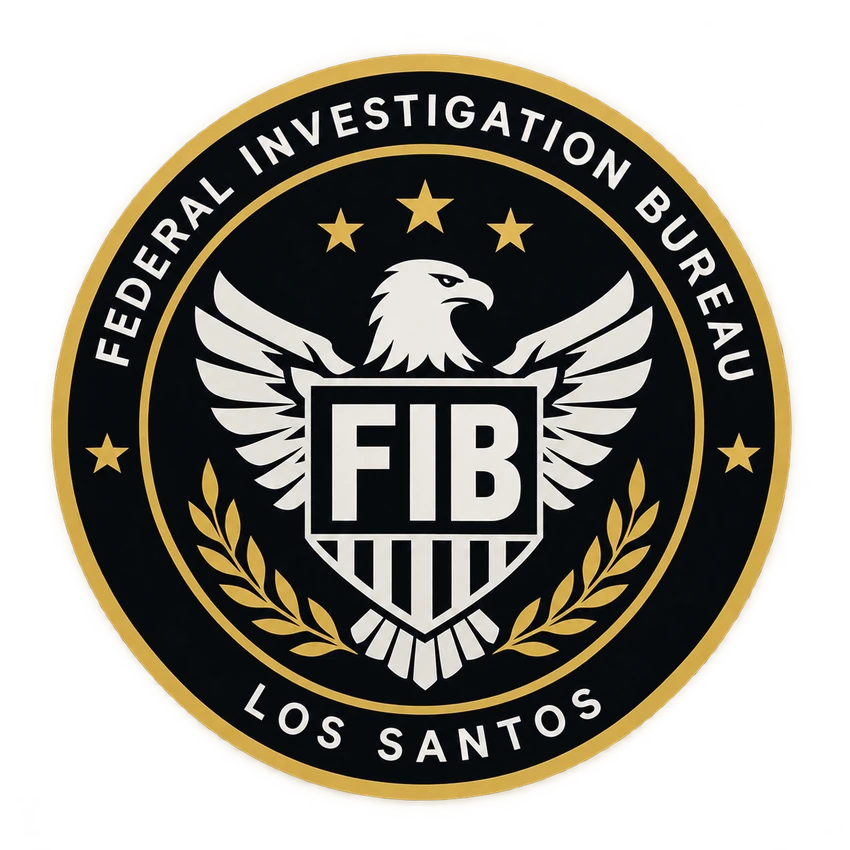
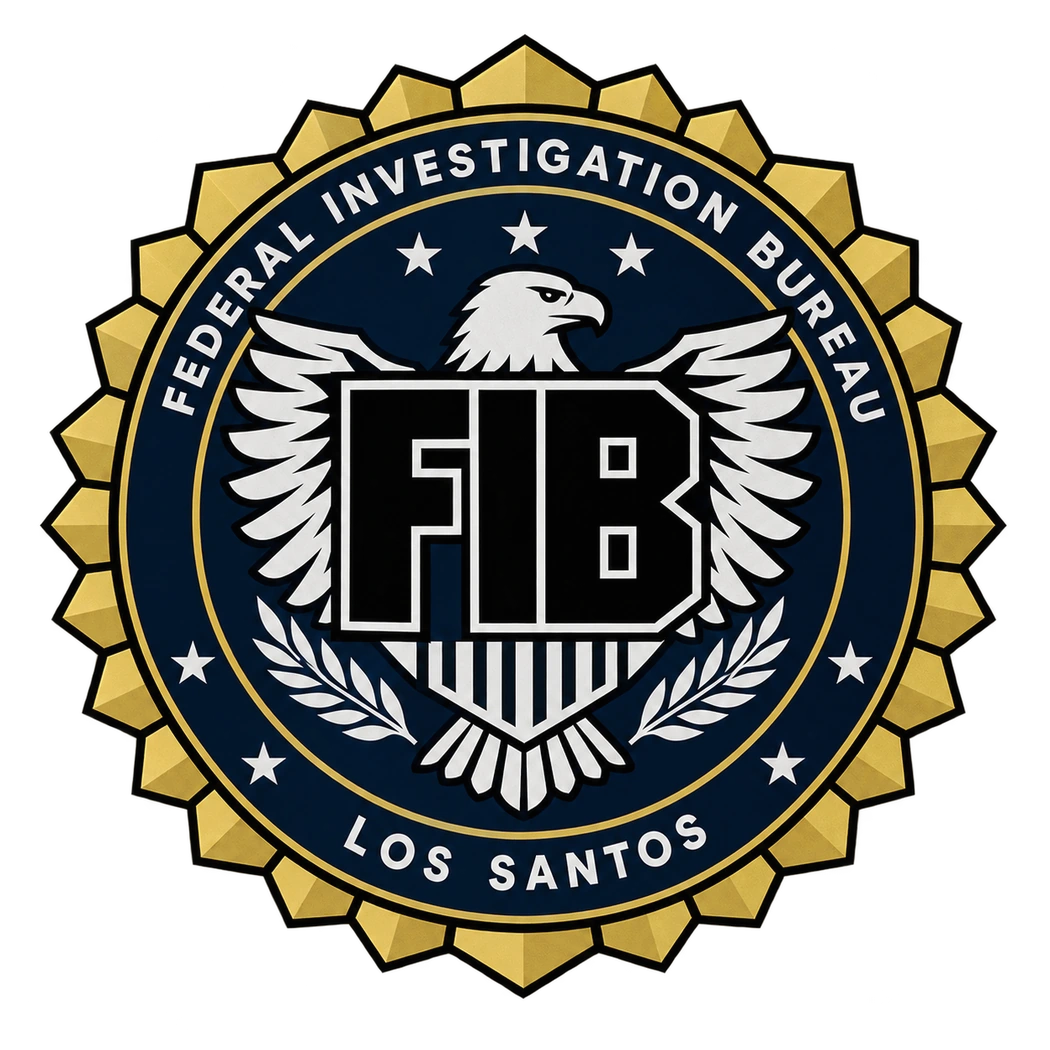
Add files via upload

diff --git a/styles.css b/styles.css
@@ -1326,3 +1326,125 @@
 .profile-portrait.has-photo img{width:100%;height:100%;max-width:none;max-height:none;object-fit:cover;object-position:50% 28%}
 .unit-page .unit-leader-portrait{width:min(100%,190px);height:190px;object-fit:cover;object-position:50% 25%;border-radius:12px;display:block;margin-bottom:5px}
 .profile-dialog .profile-paragraph+.profile-paragraph{margin-top:11px}
+
+/* ================================================================
+   FIB OLYMP 5.0 | final design alignment and functional galleries
+   Scope is intentional: leave approved Contacts and Join pages intact.
+   ================================================================ */
+/* New shared FIB seal is installed at /assets/fib-seal.webp, including favicon. */
+.home .home-leadership{
+  display:grid!important;
+  grid-template-columns:minmax(0,1.3fr) minmax(290px,.8fr)!important;
+  gap:clamp(25px,4vw,65px)!important;
+  align-items:center!important;
+  min-height:420px!important;
+  padding-top:72px!important;padding-bottom:88px!important;
+  position:relative!important;isolation:isolate!important;
+  overflow:hidden!important;
+}
+.home .home-leadership-left{grid-column:1!important;grid-row:1!important;position:relative!important;z-index:2!important}
+.home .home-bureau-frame{grid-column:2!important;grid-row:1!important;position:relative!important;z-index:2!important;max-width:440px!important;justify-self:end!important}
+.home .home-leadership .home-seal{
+  position:absolute!important;inset:auto!important;top:50%!important;right:0!important;
+  display:block!important;grid-column:auto!important;grid-row:auto!important;
+  width:min(55vw,680px)!important;height:min(55vw,680px)!important;
+  min-width:0!important;margin:0!important;
+  justify-self:auto!important;align-self:auto!important;
+  background:url('/assets/fib-seal.webp') center/contain no-repeat!important;
+  z-index:0!important;opacity:.13!important;filter:saturate(.78)!important;
+  animation:fib-seal-watermark-float 11s ease-in-out infinite!important;
+  will-change:transform;pointer-events:none!important;
+}
+@keyframes fib-seal-watermark-float{
+  0%,100%{transform:translateY(-50%) rotate(-1deg)}
+  50%{transform:translateY(calc(-50% - 11px)) rotate(1deg)}
+}
+/* Fade the background photograph into the next dark section, never a hard stripe. */
+.home .hero{background:#0b0c0d!important}
+.home .hero-picture{mask-image:linear-gradient(to bottom,#000 0%,#000 58%,rgba(0,0,0,.92) 70%,rgba(0,0,0,.48) 88%,transparent 100%)!important}
+.home .hero-shade{mask-image:none!important;background:linear-gradient(90deg,rgba(4,5,6,.16),rgba(4,5,6,.17) 42%,rgba(4,5,6,.59) 75%,rgba(4,5,6,.82)),linear-gradient(180deg,rgba(5,6,7,.16),transparent 36%,rgba(9,10,11,.45) 73%,#0b0c0d 100%)!important}
+.home .hero-actions{justify-content:center!important;gap:12px!important}
+.home .hero-actions .action-button{min-width:205px;min-height:46px!important;padding:10px 19px!important;border-radius:11px!important}
+.home .hero-actions .action-button.ghost{background:rgba(12,14,15,.2)!important;color:#efe2d0!important;border:1px solid rgba(230,195,144,.6)!important;backdrop-filter:blur(6px)}
+.home .hero-actions .action-button.ghost:hover,.home .hero-actions .action-button.ghost:focus-visible{background:rgba(216,181,120,.14)!important;border-color:#e4c18c!important}
+.home-end .lift-links .text-link{display:inline-flex;justify-content:center;min-width:205px;min-height:44px;padding:9px 19px;border:1px solid rgba(216,181,120,.33);border-radius:11px;background:rgba(255,255,255,.025);transform:none;text-decoration:none}
+.home-end .lift-links .text-link:hover,.home-end .lift-links .text-link:focus-visible{border-color:rgba(216,181,120,.75);background:rgba(216,181,120,.08);transform:translateY(-2px)}
+@media(max-width:1090px){.home .home-leadership{grid-template-columns:minmax(0,1fr) minmax(250px,.8fr)!important;gap:24px!important}.home .home-leadership .home-seal{width:min(63vw,560px)!important;height:min(63vw,560px)!important;right:-15px!important;opacity:.105!important}}
+@media(max-width:760px){
+ .home .home-leadership{grid-template-columns:minmax(0,1fr)!important;min-height:0!important;padding-top:50px!important;padding-bottom:65px!important}
+ .home .home-leadership-left{grid-column:1!important;grid-row:1!important}
+ .home .home-bureau-frame{grid-column:1!important;grid-row:2!important;justify-self:start!important;max-width:510px!important}
+ .home .home-leadership .home-seal{top:53%!important;right:-19vw!important;width:88vw!important;height:88vw!important;opacity:.09!important;grid-column:auto!important;grid-row:auto!important}
+ .home .hero-actions{justify-content:flex-start!important}
+ .home .hero-actions .action-button{min-width:0;flex:1 1 170px}
+}
+@media(prefers-reduced-motion:reduce){.home .home-leadership .home-seal{animation:none!important;transform:translateY(-50%)!important}}
+
+/* A single centered line at each tree level, calculated from real grid gaps. */
+.bureau-page .leadership-tree{width:100%;max-width:1060px!important;gap:0!important;margin-inline:auto!important}
+.bureau-page .leader-director{display:flex!important;justify-content:center!important;align-self:center!important}
+.bureau-page .tree-stem{width:1px!important;height:45px!important;background:rgba(215,180,115,.72)!important;opacity:1!important;margin:0 auto!important}
+.bureau-page .leader-row,.bureau-page .head-row{display:grid!important;position:relative!important;gap:18px!important;margin:18px auto 0!important;width:100%!important}
+.bureau-page .leader-row{grid-template-columns:repeat(3,minmax(0,1fr))!important;max-width:850px!important}
+.bureau-page .head-row{grid-template-columns:repeat(4,minmax(0,1fr))!important;max-width:1060px!important}
+.bureau-page .leader-row::before,.bureau-page .head-row::before{content:''!important;display:block!important;position:absolute!important;height:1px!important;top:-18px!important;opacity:1!important;background:rgba(215,180,115,.72)!important;pointer-events:none!important}
+.bureau-page .leader-row::before{left:calc((100% - 36px) / 6)!important;right:calc((100% - 36px) / 6)!important}
+.bureau-page .head-row::before{left:calc((100% - 54px) / 8)!important;right:calc((100% - 54px) / 8)!important}
+.bureau-page .tree-node::before{content:''!important;display:block!important;position:absolute!important;top:-18px!important;left:50%!important;width:1px!important;height:18px!important;background:rgba(215,180,115,.72)!important;opacity:1!important;pointer-events:none!important}
+.bureau-page .tree-stem-secondary{height:40px!important}
+.bureau-page .tree-tier-caption{position:relative!important;min-height:30px!important;margin:0 auto!important;display:flex!important;align-items:center!important;justify-content:center!important;isolation:isolate}
+.bureau-page .tree-tier-caption::before{content:'';position:absolute;top:0;bottom:0;left:50%;width:1px;background:rgba(215,180,115,.72);z-index:-1}
+.bureau-page .tree-tier-caption{background:#0b0c0d;padding:0 14px!important}
+.bureau-page .leader-card[data-person="head-csoa"] .leader-portrait.has-photo img{object-position:34% 50%!important}
+.unit-page .unit-leader-portrait{object-position:34% 50%!important}
+@media(max-width:900px) and (min-width:681px){
+ .bureau-page .head-row{grid-template-columns:repeat(2,minmax(0,1fr))!important;max-width:670px!important}
+ .bureau-page .head-row::before{left:calc((100% - 18px) / 4)!important;right:calc((100% - 18px) / 4)!important}
+}
+@media(max-width:680px){
+ .bureau-page .leader-row{grid-template-columns:minmax(0,1fr)!important;max-width:270px!important;gap:16px!important}
+ .bureau-page .head-row{grid-template-columns:repeat(2,minmax(0,1fr))!important;gap:12px!important}
+ .bureau-page .leader-row::before,.bureau-page .head-row::before,.bureau-page .tree-node::before{display:none!important}
+ .bureau-page .tree-stem{height:29px!important}
+ .bureau-page .tree-stem-secondary{height:29px!important}
+ .bureau-page .tree-tier-caption::before{display:none!important}
+}
+
+/* Six compact previews are shown on the division page; ALL photos remain in the viewer. */
+.unit-page .unit-photo-gallery{display:grid!important;grid-template-columns:repeat(3,minmax(0,1fr))!important;gap:9px!important;align-items:start!important}
+.unit-page .unit-photo-gallery .unit-gallery-thumb{display:block!important;aspect-ratio:4/3!important;border:0!important;padding:0!important;border-radius:10px!important;background:#1b1d1f!important;overflow:hidden!important;position:relative!important;cursor:zoom-in!important}
+.unit-page .unit-photo-gallery .unit-gallery-thumb:nth-child(n+7){display:none!important}
+.unit-page .unit-photo-gallery .unit-gallery-thumb img{display:block!important;width:100%!important;height:100%!important;object-fit:cover!important}
+.unit-page .unit-gallery-more{position:absolute;inset:0;display:grid;place-items:center;background:rgba(0,0,0,.60);color:#f7e5c7;font-size:27px;font-weight:800}
+.unit-page .unit-photo-gallery .unit-gallery-thumb:focus-visible{outline:2px solid #e1bc82;outline-offset:3px}
+@media(max-width:580px){.unit-page .unit-photo-gallery{gap:7px!important}.unit-page .unit-photo-gallery .unit-gallery-thumb{aspect-ratio:1/1!important}}
+
+/* Accessible lightbox: navigable arrows, close button and a scrolling thumbnail strip. */
+.unit-gallery-dialog{width:min(95vw,1140px)!important;max-width:none!important;max-height:95dvh!important;padding:0!important;overflow:hidden!important;border-radius:15px!important}
+.unit-gallery-viewer{min-height:0!important;height:min(68dvh,690px)!important;padding:40px 65px 40px!important}
+.unit-gallery-viewer .gallery-large-image{display:block!important;max-width:100%!important;max-height:calc(min(68dvh,690px) - 78px)!important;width:auto!important;height:auto!important;object-fit:contain!important}
+.unit-gallery-dialog .gallery-nav{top:50%!important;transform:translateY(-50%)!important;width:44px!important;height:53px!important}
+.unit-gallery-dialog .gallery-prev{left:12px!important}.unit-gallery-dialog .gallery-next{right:12px!important}
+.unit-gallery-dialog .gallery-close{top:9px!important;right:10px!important;width:38px!important;height:38px!important}
+.unit-gallery-dialog .gallery-strip{display:flex;gap:9px;align-items:center;justify-content:flex-start;overflow-x:auto;scrollbar-width:thin;padding:12px 19px 14px;background:#121416;border-top:1px solid rgba(216,181,120,.12)}
+.unit-gallery-dialog .gallery-strip-thumb{display:block!important;position:relative!important;z-index:auto!important;flex:0 0 80px!important;width:80px!important;height:61px!important;min-width:80px!important;padding:0!important;border:2px solid transparent!important;border-radius:8px!important;overflow:hidden!important;transform:none!important;background:#232426!important;cursor:pointer!important;transition:border-color .2s ease,opacity .2s ease!important;opacity:.65}
+.unit-gallery-dialog .gallery-strip-thumb img{display:block;width:100%;height:100%;object-fit:cover}
+.unit-gallery-dialog .gallery-strip-thumb[aria-current="true"]{border-color:#d8b578!important;opacity:1}
+.unit-gallery-dialog .gallery-strip-thumb:hover,.unit-gallery-dialog .gallery-strip-thumb:focus-visible{opacity:1;outline-offset:2px}
+@media(max-width:620px){.unit-gallery-dialog{width:98vw!important}.unit-gallery-viewer{height:min(64dvh,550px)!important;padding:44px 43px 38px!important}.unit-gallery-viewer .gallery-large-image{max-height:calc(min(64dvh,550px) - 78px)!important}.unit-gallery-dialog .gallery-prev{left:2px!important}.unit-gallery-dialog .gallery-next{right:2px!important}.unit-gallery-dialog .gallery-strip-thumb{width:66px!important;height:53px!important;min-width:66px!important;flex-basis:66px!important}}
+
+/* Documents: two restrained links side by side instead of wide dark slabs. */
+.documents-page .record-list{display:grid!important;grid-template-columns:repeat(2,minmax(0,1fr))!important;width:min(100%,850px)!important;gap:13px!important;margin:15px 0 0!important}
+.documents-page .record-card{min-height:75px!important;padding:13px 15px!important;gap:12px!important;background:rgba(22,24,25,.55)!important;border:1px solid rgba(216,181,120,.10)!important;border-radius:11px!important}
+.documents-page .record-card h3{font-size:clamp(14px,1.14vw,17px)!important;line-height:1.34!important;margin:0 0 4px!important}
+.documents-page .record-card p{font-size:11px!important;line-height:1.4!important}
+.documents-page .record-card-icon{width:20px!important;min-width:20px!important;height:22px!important;min-height:22px!important}
+.documents-page .record-card-icon svg{width:17px!important;height:17px!important}
+@media(max-width:710px){.documents-page .record-list{grid-template-columns:1fr!important;max-width:530px!important}}
+
+/* Sparse optional falling motes; never capture clicks or cover the hero photograph. */
+.ambient-fall{pointer-events:none!important;z-index:5!important;opacity:.7!important}
+@media(prefers-reduced-motion:reduce){.ambient-fall{display:none!important}}
+
+/* The four-division overview stays a single row on laptop widths too. */
+@media(min-width:900px){.home .unit-grid{grid-template-columns:repeat(4,minmax(0,1fr))!important}}

diff --git a/app.js b/app.js
@@ -119,58 +119,7 @@ const fibDate=value=>new Date(value).toLocaleString(FIB_LANG==='en'?'en-GB':FIB_
   document.addEventListener('mouseout', event => { if (!event.relatedTarget) hide(); });
 })();
 
-// The homepage keeps a restrained atmospheric dust animation near the photograph.
-(() => {
-  const hero = document.querySelector('.hero');
-  const reducedMotion = window.matchMedia('(prefers-reduced-motion: reduce)');
-  if (!hero || reducedMotion.matches) return;
-
-  const canvas = document.createElement('canvas');
-  canvas.className = 'gold-dust';
-  canvas.setAttribute('aria-hidden', 'true');
-  hero.appendChild(canvas);
-  const ctx = canvas.getContext('2d', {alpha: true});
-  if (!ctx) { canvas.remove(); return; }
-  let width=0,height=0,ratio=1,particles=[],frame=0,then=0;
-  const rnd=(lo,hi)=>lo+Math.random()*(hi-lo);
-  const particle=(startAnywhere=false)=>({
-    x:rnd(0,width),y:startAnywhere?rnd(0,height):rnd(-30,-3),
-    radius:rnd(.45,1.05),speed:rnd(7,15),drift:rnd(2,7),
-    phase:rnd(0,Math.PI*2),alpha:rnd(.10,.25)
-  });
-  function resize(){
-    width=hero.clientWidth;height=hero.clientHeight;
-    ratio=Math.min(window.devicePixelRatio||1,1.5);
-    canvas.width=Math.round(width*ratio);canvas.height=Math.round(height*ratio);
-    ctx.setTransform(ratio,0,0,ratio,0,0);
-    particles=Array.from({length:Math.min(18,Math.max(7,Math.round(width*height/105000)))},()=>particle(true));
-  }
-  function draw(time){
-    frame=0;
-    if (document.hidden||reducedMotion.matches) return;
-    const dt=Math.min((time-then)/1000,.06);
-    if(dt<1/28){frame=requestAnimationFrame(draw);return;}
-    then=time;
-    ctx.clearRect(0,0,width,height);
-    for(const p of particles){
-      p.y+=p.speed*dt;
-      if(p.y>height+10) Object.assign(p,particle());
-      const x=p.x+Math.sin(time*.0004+p.phase)*p.drift;
-      ctx.beginPath();ctx.fillStyle=`rgba(233,183,107,${p.alpha})`;
-      ctx.arc(x,p.y,p.radius,0,2*Math.PI);ctx.fill();
-    }
-    frame=requestAnimationFrame(draw);
-  }
-  resize();window.addEventListener('resize',resize,{passive:true});
-  document.addEventListener('visibilitychange',()=>{
-    if(!document.hidden&&!frame&&!reducedMotion.matches){then=performance.now();frame=requestAnimationFrame(draw);}
-  });
-  reducedMotion.addEventListener('change',()=>{
-    if(reducedMotion.matches){cancelAnimationFrame(frame);frame=0;canvas.style.display='none';}
-    else{canvas.style.display='';then=performance.now();if(!frame)frame=requestAnimationFrame(draw);}
-  });
-  frame=requestAnimationFrame(draw);
-})();
+// No particles are rendered on the main hero photograph.
 
 // Fine-pointer gold reflection on dark homepage panels.
 (() => {
@@ -401,6 +350,11 @@ const fibDate=value=>new Date(value).toLocaleString(FIB_LANG==='en'?'en-GB':FIB_
   if(elapsed<1/30){frame=requestAnimationFrame(draw);return;}
   last=time;
   ctx.clearRect(0,0,width,height);
+  // The homepage cover photo stays completely clear; show only on dark sections.
+  const hero=document.querySelector('.home .hero');
+  if(hero&&hero.getBoundingClientRect().bottom>0){
+   frame=requestAnimationFrame(draw);return;
+  }
   for(const p of motes){
    p.y+=p.speed*elapsed;
    if(p.y>height+3)Object.assign(p,reset(true));
@@ -424,23 +378,33 @@ const fibDate=value=>new Date(value).toLocaleString(FIB_LANG==='en'?'en-GB':FIB_
  const gallery=document.querySelector('.unit-photo-gallery');
  const dialog=document.getElementById('unit-gallery-dialog');
  if(!gallery||!dialog||typeof dialog.showModal!=='function')return;
- const links=[...gallery.querySelectorAll('a.unit-gallery-thumb')];
- if(!links.length)return;
+ const buttons=[...gallery.querySelectorAll('button.unit-gallery-thumb')];
+ if(!buttons.length)return;
  const image=dialog.querySelector('.gallery-large-image');
  const counter=dialog.querySelector('.gallery-counter');
+ const strip=dialog.querySelector('.gallery-strip');
  let position=0,touchStartX=null;
  function show(index){
-  position=(index+links.length)%links.length;
-  const link=links[position];
-  image.src=link.href;
-  image.alt=link.querySelector('img')?.alt||'';
-  counter.textContent=`${position+1} / ${links.length}`;
+  position=(index+buttons.length)%buttons.length;
+  const source=buttons[position];
+  image.src=source.dataset.gallerySrc;
+  image.alt=source.querySelector('img')?.alt||'';
+  counter.textContent=`${position+1} / ${buttons.length}`;
+  [...strip.children].forEach((thumb,i)=>{
+   thumb.setAttribute('aria-current',String(i===position));
+   if(i===position) thumb.scrollIntoView({block:'nearest',inline:'nearest',behavior:'instant'});
+  });
  }
  function close(){dialog.close();}
- links.forEach((link,index)=>link.addEventListener('click',event=>{
-  if(event.ctrlKey||event.metaKey||event.shiftKey||event.altKey)return;
-  event.preventDefault();show(index);dialog.showModal();
- }));
+ buttons.forEach((button,index)=>{
+  const thumb=document.createElement('button');
+  thumb.type='button';thumb.className='gallery-strip-thumb';
+  thumb.setAttribute('aria-label',button.getAttribute('aria-label')||String(index+1));
+  const small=document.createElement('img');small.src=button.dataset.gallerySrc;small.alt='';small.loading='lazy';
+  thumb.appendChild(small);strip.appendChild(thumb);
+  thumb.addEventListener('click',()=>show(index));
+  button.addEventListener('click',()=>{show(index);dialog.showModal();});
+ });
  dialog.querySelector('.gallery-close').addEventListener('click',close);
  dialog.querySelector('.gallery-prev').addEventListener('click',()=>show(position-1));
  dialog.querySelector('.gallery-next').addEventListener('click',()=>show(position+1));

diff --git a/README.md b/README.md
@@ -2,7 +2,7 @@
 
 **Render:** дивіться [RENDER_DEPLOY.md](RENDER_DEPLOY.md) — команди, Root Directory, діагностика та Blueprint.
 
-Оновлено 23 листопада 2026 року (v4.0 — зведені правки). Головна сторінка містить повернутий блок «Сильна структура. Спільна відповідальність.» із темною заокругленою інформаційною рамкою, як на наданому прикладі. Збережено інші секції, навігацію, чотири підрозділи, адаптивність та українську, англійську й німецьку версії.
+Оновлено 24 листопада 2026 року (v5.0 — фотографії, нова емблема та галереї). Головна сторінка містить повернутий блок «Сильна структура. Спільна відповідальність.» із темною заокругленою інформаційною рамкою, як на наданому прикладі. Збережено інші секції, навігацію, чотири підрозділи, адаптивність та українську, англійську й німецьку версії.
 
 ## Оновлення дизайну — 23 листопада 2026 року
 
@@ -11,12 +11,12 @@
 **Ліміт GitHub:** в архіві лише вихідні файли. Згенеровану папку `dist/` не завантажуйте у GitHub: Render відновлює її через `npm run build`, а GitHub Actions так само збирає сайт. Це зменшує кількість файлів до рівня нижче ліміту 100.
 
 
-- Підрозділи: прибрано публічні параметри відбору з окремих сторінок; розширено опис; окрема галерея з двох компактних фото; лаконічні поля «Керівник» і «Заступник». Для ДКБ повернуто тематичний кадр кіберцентру із наявних матеріалів проєкту.
-- Керівництво: вертикальне дерево з видимими з’єднувальними лініями, видовжені картки; емблема використовується як тимчасове зображення, доки не надано портретів; лише ім'я і посада, натискання відкриває досьє.
+- Підрозділи: прибрано публічні параметри відбору з окремих сторінок; розширено опис; компактна галерея з гортанням; лаконічні поля «Керівник» і «Заступник». Для ДКБ повернуто тематичний кадр кіберцентру із наявних матеріалів проєкту.
+- Керівництво: вертикальне дерево з видимими з’єднувальними лініями, видовжені картки; надані портрети використовуються для Kai Muerte; емблема — лише для невідомих посадовців; лише ім'я і посада, натискання відкриває досьє.
 - Академія: послідовність із шести етапів з нумерацією 01–06 без дублювання номерів; мінімальні ранги зібрано тут, в окремому блоці профільних напрямів.
 - Новини й документи: компактні тематичні символи по центру, без рамок та надлишкових посилань; публічні нормативні посилання в документах залишено.
 - Контакти: компактні кнопки з логотипами. Discord, пресслужба, законодавство і вступ мають робочі посилання; Instagram і TikTok не ведуть на вигадані акаунти до публікації реальних адрес.
-- Верхні фони вкладок уніфіковані, а фон при наведенні працює й для поточної вкладки. Темний блок «Про бюро» та рухлива емблема збережені, без накладання один на одного.
+- Верхні фони вкладок уніфіковані, а фон при наведенні працює й для поточної вкладки. Темний блок «Про бюро» збережено, велика емблема тепер напівпрозора на фоні під текстом.
 - Сторінку вступу та її функціональність заявок не переробляли.
 
 ## Структура проєкту
@@ -74,12 +74,23 @@ npm start
 Усі 14 сторінок доступні трьома мовами (42 локалізовані маршрути). Перед публікацією запускайте `npm test`.
 
 
-## Персонажі та нова емблема (v4.2)
-У розділі «Керівництво» є RP-біографія Kai Muerte (19 років, українець), українською, англійською й німецькою.
+## Повний пакет v5.0 (24 листопада 2026)
 
-Для відображення надісланих фотографій покладіть файли без змін у `assets/people/`:
-- `director.webp` — перша фотографія, картка директора FIB Olymp та його досьє;
-- `csoa-head.webp` — третя фотографія, картка керівника ЦСО «А», досьє та сторінка підрозділу.
-Також підтримуються однойменні `.png`, `.jpg`, `.jpeg` і `.avif` (після `npm run build`); якщо фотографії не завантажено, замість них лишається емблема.
+- Встановлено **нову емблему FIB** із наданого файлу, використовується в шапці, favicon, тлі та картках без реальних портретів.
+- Встановлено **два надані RP-портрети**: `assets/people/director.png` (директор Kai Muerte) і `assets/people/csoa-head.png` (керівник ЦСО «А»). Біографія Kai Muerte доступна в його досьє. Це художня історія ігрового персонажа.
+- У `assets/units/gallery/` додано **31 фото з units.zip**: 12 для `csoa/`, 6 для `gsu/`, 7 для `gur/` і 6 для `dkb/`. Попередні зображення не видалено. На сторінці підрозділу видно 6 акуратних прев’ю; натисніть на них, щоб відкрити **усю галерею з гортанням і стрічкою мініатюр**. Без переходу до окремого файла.
+- **Червоне фото** використовується як обкладинка ЦСО «А» в обох списках підрозділів.
+- Перебудовано **фонову емблему на головній**, плавний перехід від фотографії, прозору кнопку «Дізнатися про бюро» і тонку анімацію падаючих частинок (не над головним фото; вимикається за `prefers-reduced-motion`).
+- Виправлено **лінії дерева керівництва**: їхні кінці вирівняно точно по центрах карток, зайві точки відсутні.
+- **Документи** тепер два стримані компактні посилання поруч, без громіздких плит; Новини й Контакти збережено в погодженому стилі. Академія має шість етапів без подвоєної нумерації.
 
-Для нового логотипа замініть `assets/fib-seal.webp` (шапка, головна, декоративні елементи та місця з емблемою) — вона використовується також як іконка вкладки, потім запустіть `npm run build`. Нових фальшивих фото або згенерованих портретів немає.
+### Додавання нових фотографій без редагування коду
+
+Додавайте `jpg`, `jpeg`, `png`, `webp` або `avif` безпосередньо в потрібну папку:
+
+- `assets/units/gallery/csoa/` — ЦСО «А»
+- `assets/units/gallery/gsu/` — ГСУ
+- `assets/units/gallery/gur/` — ГУР
+- `assets/units/gallery/dkb/` — ДКБ
+
+Після додавання запустіть `npm run build`: нові фотографії автоматично увійдуть у галерею й відкриватимуться з гортанням. Якщо буде понад 6 фотографій, решта доступна з повноекранного перегляду. Під час завантаження через GitHub стежте за обмеженням **100 файлів за одну операцію**. Повний ZIP містить лише джерела (без папки `dist/`).
